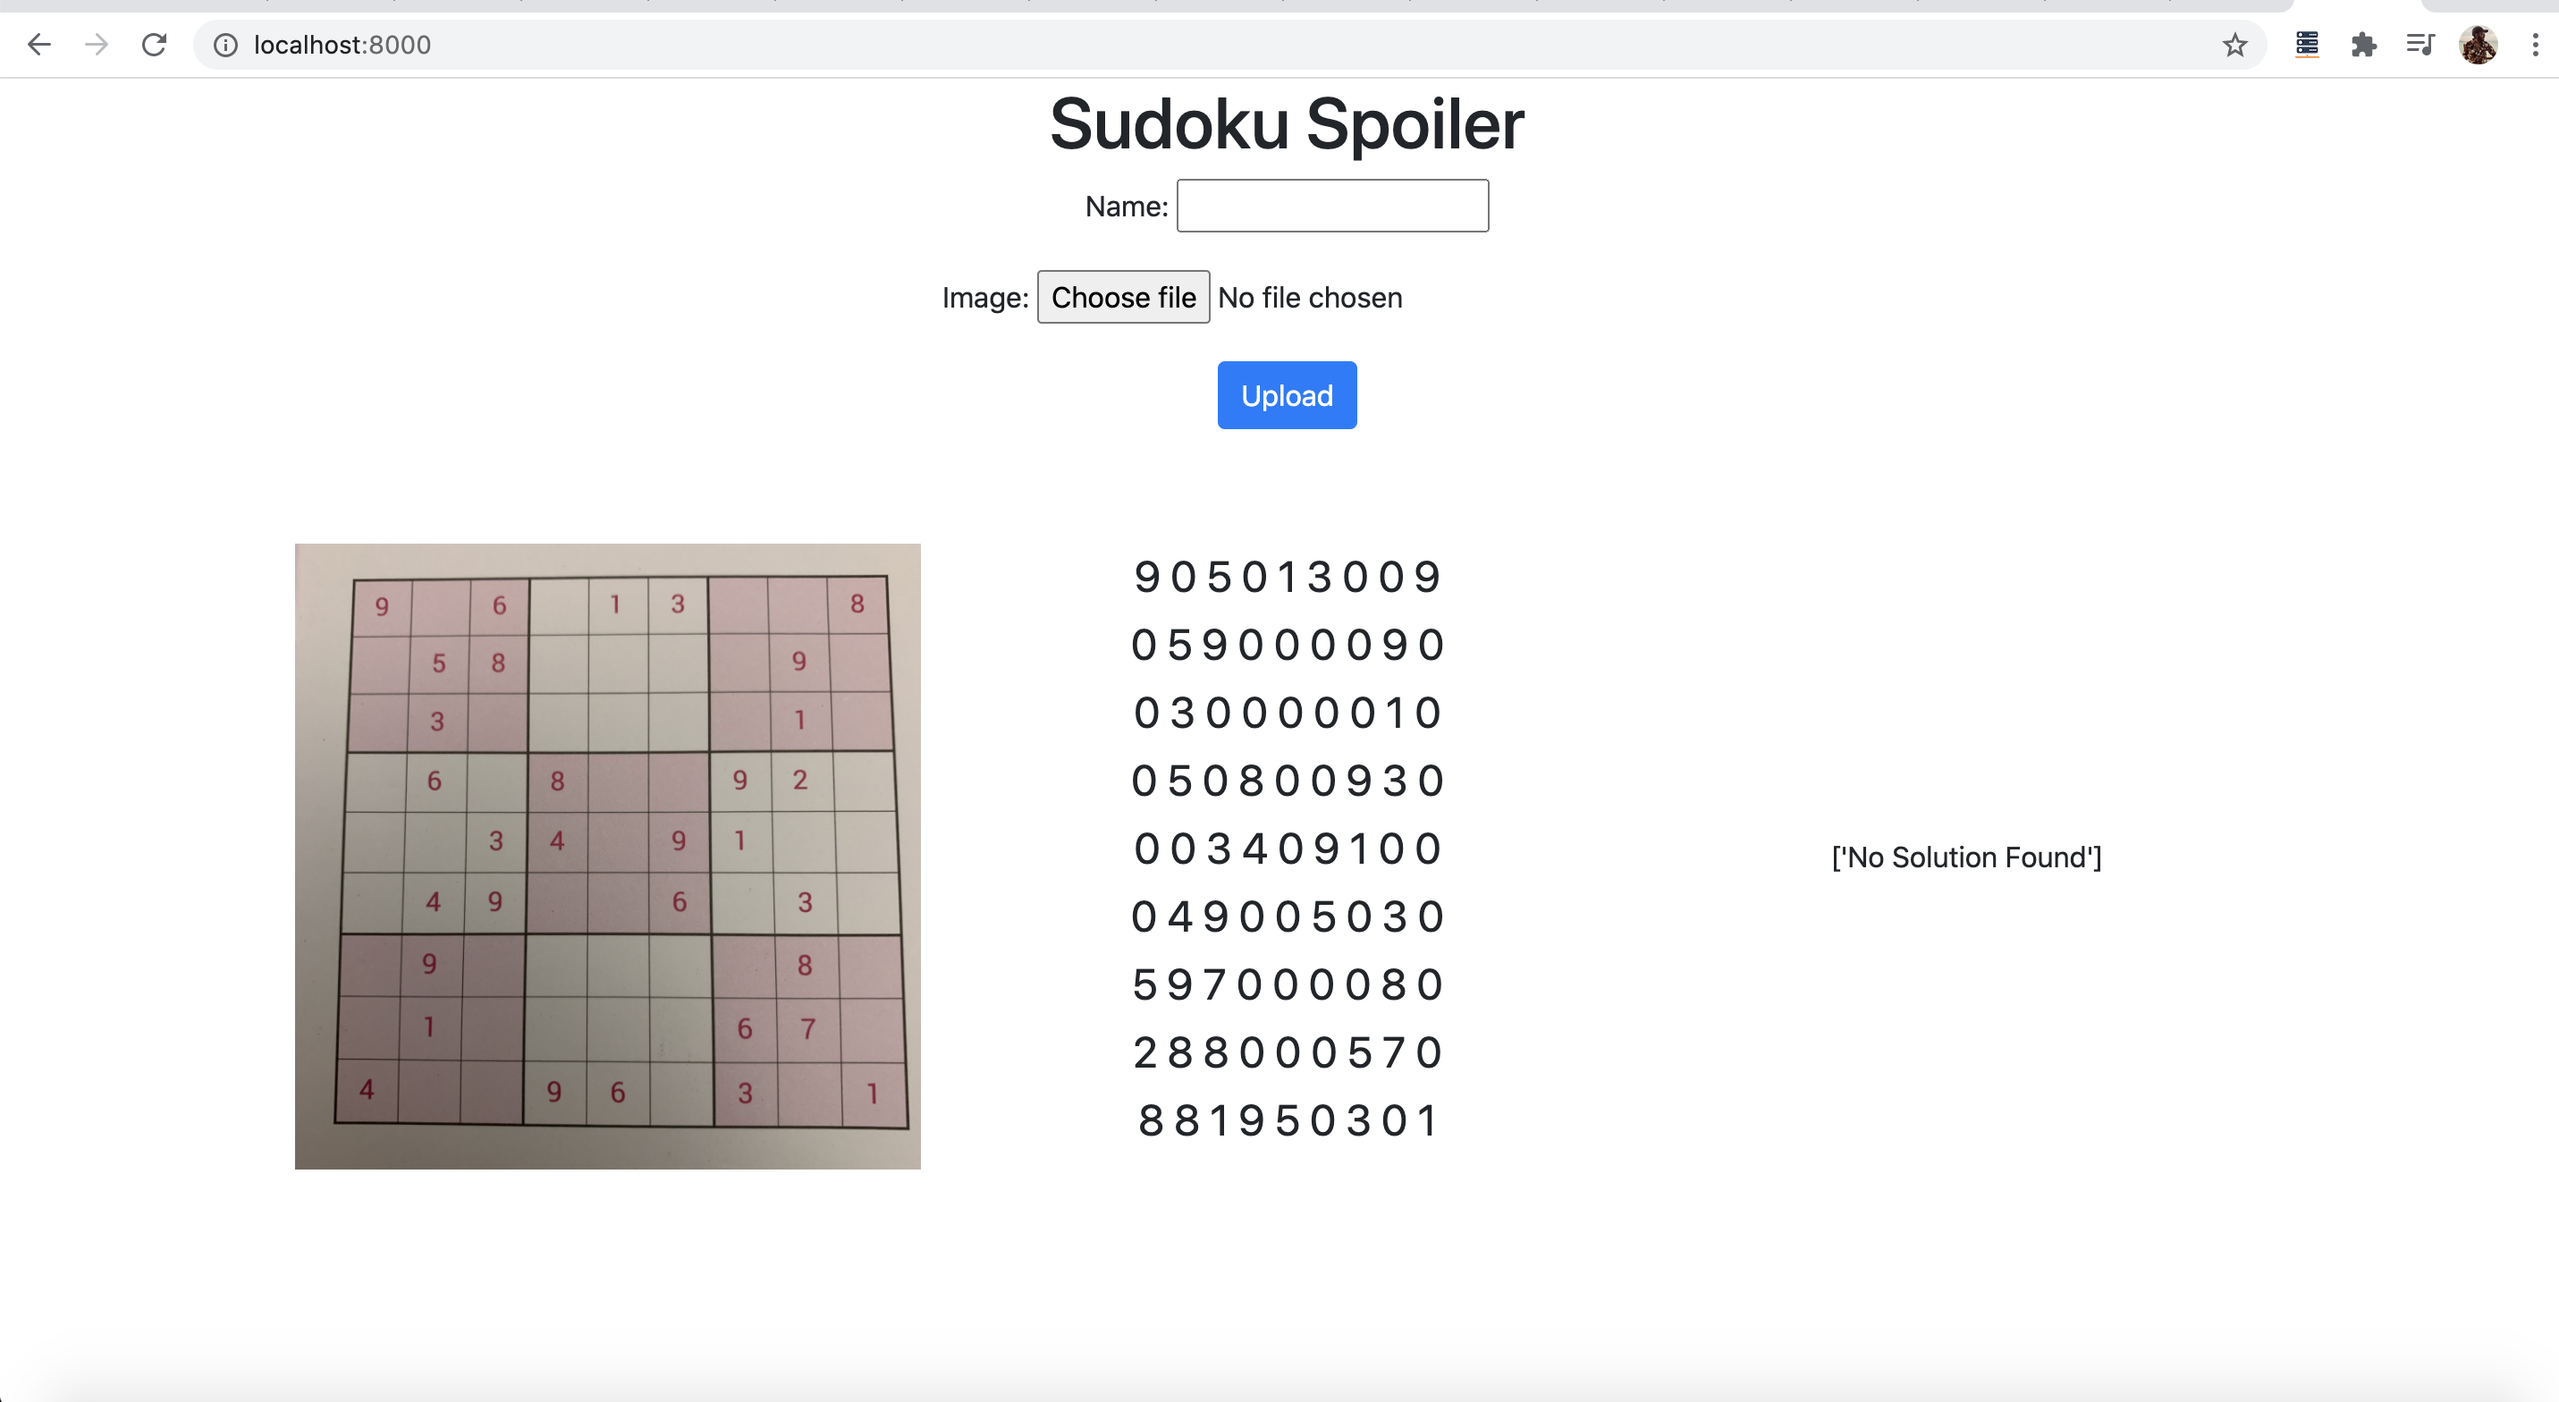
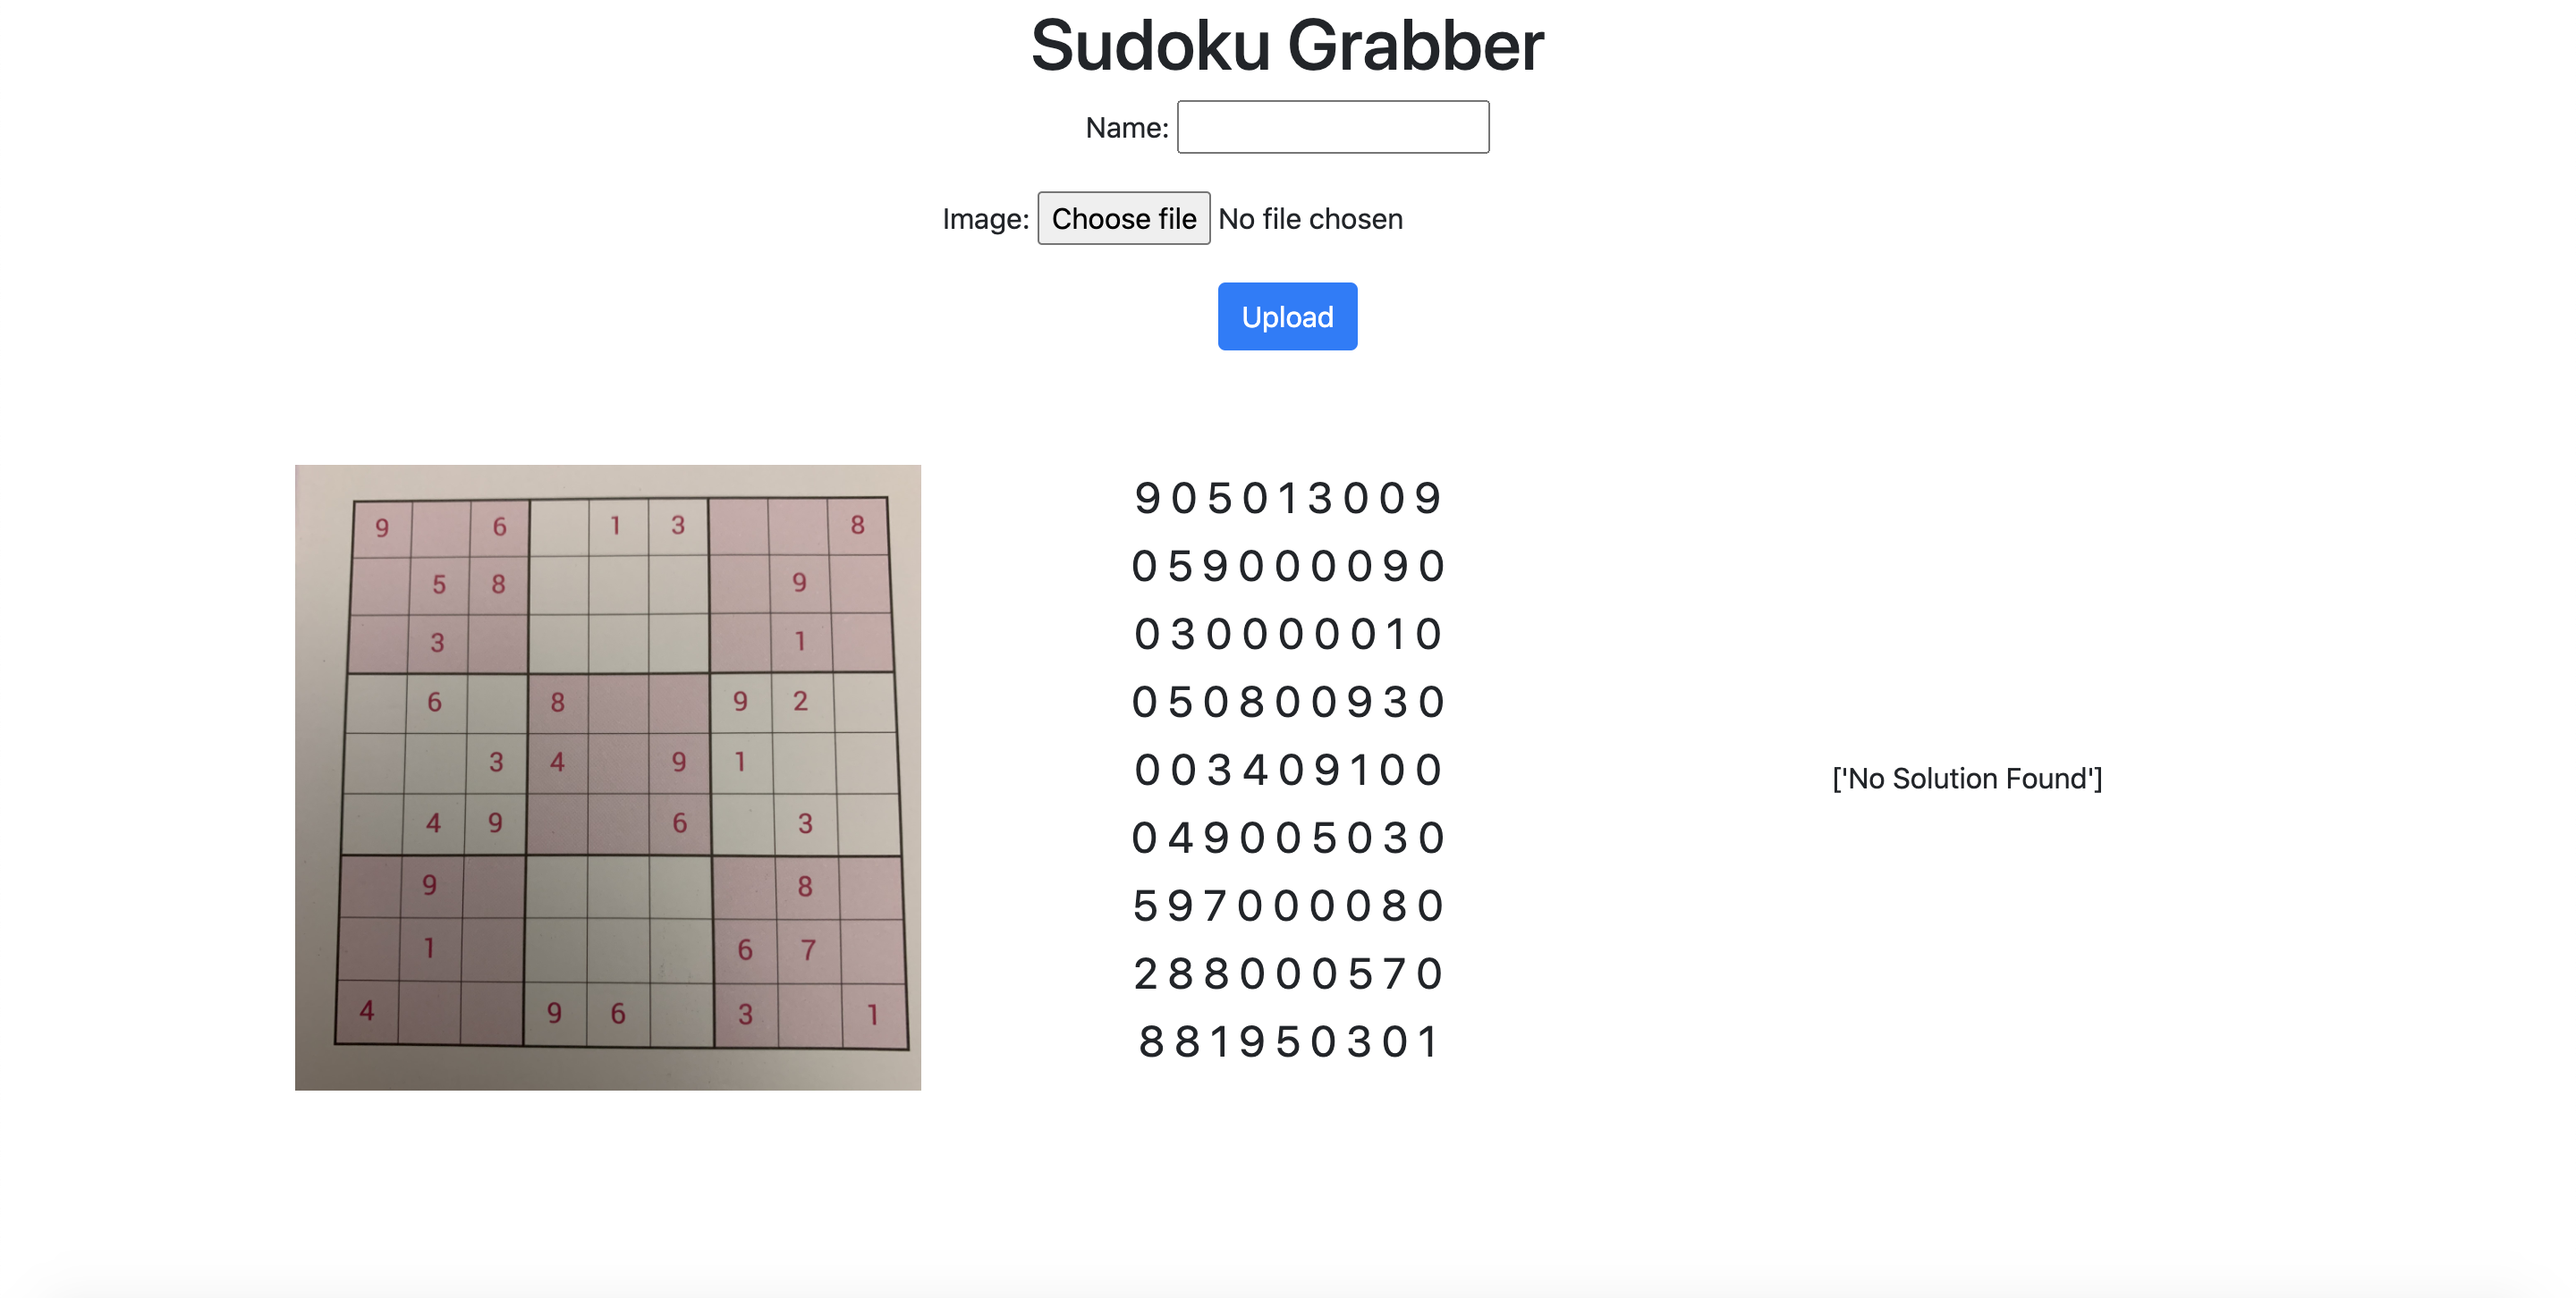
added final image

diff --git a/templates/djangoform.html b/templates/djangoform.html
@@ -9,7 +9,7 @@
 		<div class="container">
 			<div class="row justify-content-center">
 				<div class="col-xs-12 col-sm-12 col-md-6 text-center">
-					<h1>Sudoku Spoiler</h1>
+					<h1>Sudoku Grabber</h1>
 				</div>
 			</div>
 		</div>
